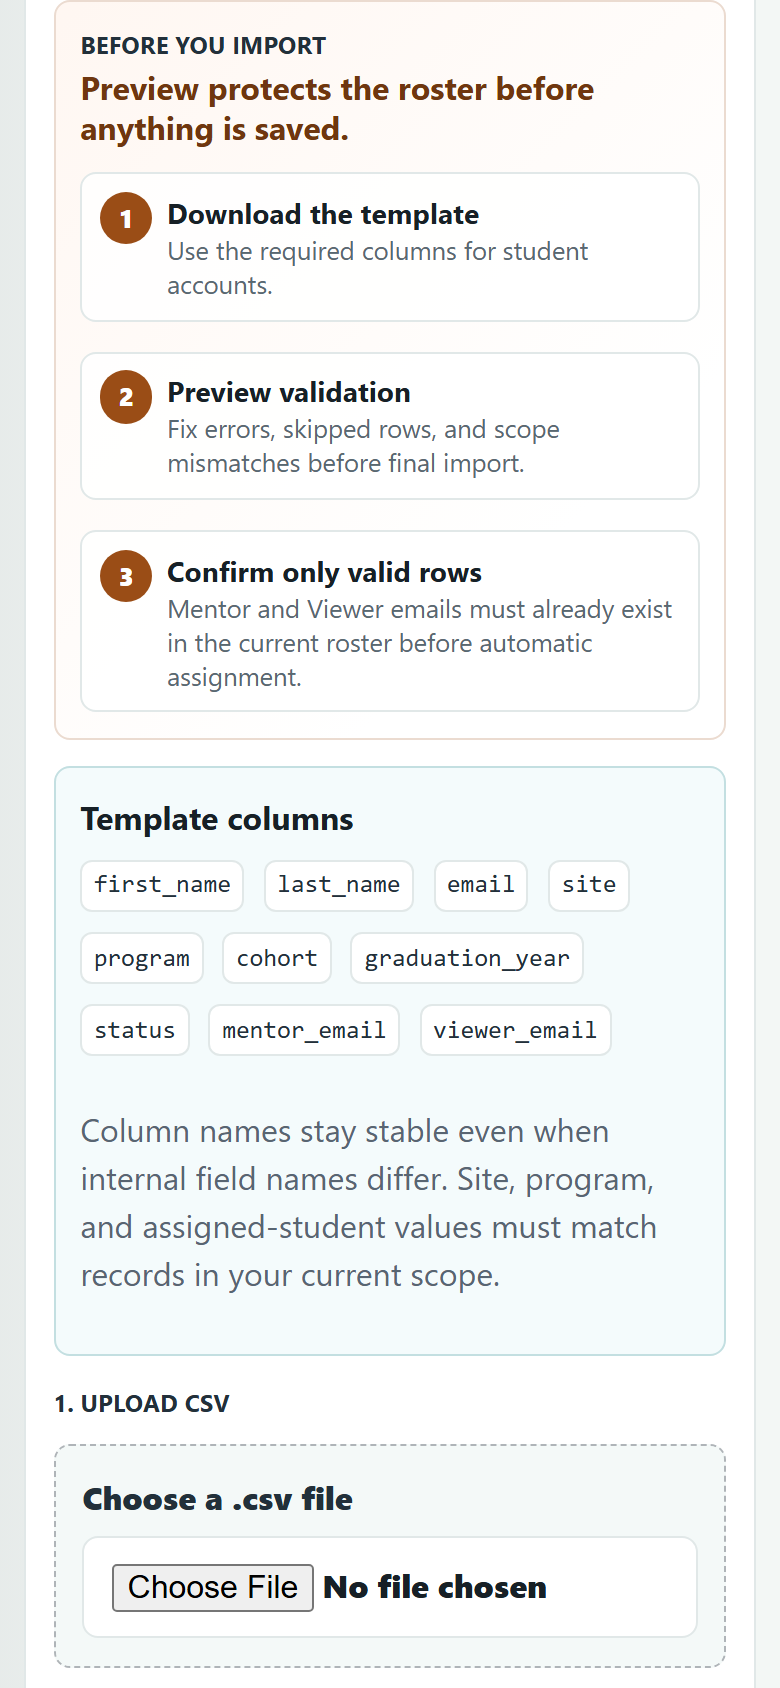
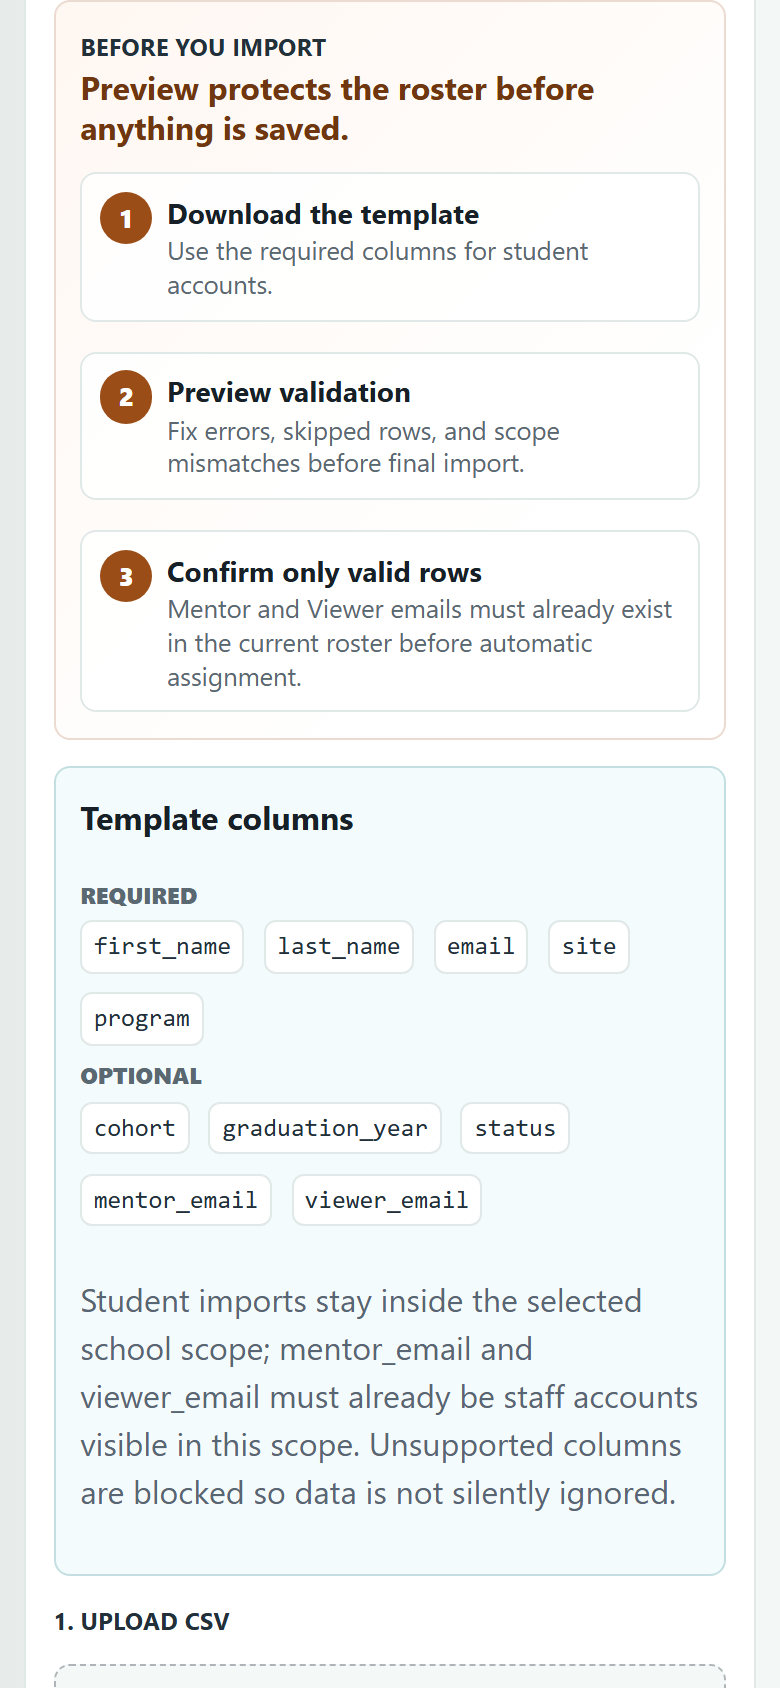
feat: strengthen reports imports and admin confidence

diff --git a/workspace.js b/workspace.js
@@ -5159,16 +5159,8 @@ function renderAdminAssignmentCoverageSummary() {
 
 function renderAdminImportTemplateShelf() {
   const templates = [
-    {
-      kind: "students",
-      title: "Student CSV template",
-      detail: "Student name, email, school, program, cohort, graduation year, status, mentor email, viewer email.",
-    },
-    {
-      kind: "staff",
-      title: "Staff CSV template",
-      detail: "Staff name, email, role, school, program, assigned student emails, and status.",
-    },
+    csvTemplateContractForKind("students"),
+    csvTemplateContractForKind("staff"),
   ];
   return `
     <section class="workspace-admin-template-shelf" data-admin-import-template-shelf="true" aria-label="CSV templates">
@@ -5180,6 +5172,8 @@ function renderAdminImportTemplateShelf() {
             <div>
               <strong>${escapeHtml(template.title)}</strong>
               <p>${escapeHtml(template.detail)}</p>
+              ${renderCsvTemplateColumnGroups(template.kind)}
+              <p class="workspace-muted">${escapeHtml(template.scopeNote)}</p>
             </div>
             <div class="workspace-row-actions">
               <button class="workspace-link-button workspace-link-button-small" type="button" data-people-view-target="${escapeHtml(template.kind === "staff" ? "import-staff" : "import-students")}">
@@ -17255,16 +17249,12 @@ function renderCsvImportStepper(kind = "students") {
 }
 
 function renderCsvTemplateDocumentation(kind = "students") {
-  const columns = kind === "staff"
-    ? ["first_name", "last_name", "email", "role", "site", "program", "assigned_student_emails", "status"]
-    : ["first_name", "last_name", "email", "site", "program", "cohort", "graduation_year", "status", "mentor_email", "viewer_email"];
+  const contract = csvTemplateContractForKind(kind);
   return `
     <section class="workspace-csv-template-doc" data-csv-template-doc="${escapeHtml(kind)}">
       <strong>Template columns</strong>
-      <div class="workspace-chip-row">
-        ${columns.map((column) => `<code>${escapeHtml(column)}</code>`).join("")}
-      </div>
-      <p class="workspace-muted">Column names stay stable even when internal field names differ. Site, program, and assigned-student values must match records in your current scope.</p>
+      ${renderCsvTemplateColumnGroups(kind)}
+      <p class="workspace-muted">${escapeHtml(contract.scopeNote)} ${escapeHtml(contract.validationNote)}</p>
     </section>
   `;
 }
@@ -17321,16 +17311,62 @@ function renderCsvSummaryMetric(label, value) {
 }
 
 function csvTemplateForKind(kind = "students") {
-  if (kind === "staff") {
-    return [
-      "first_name,last_name,email,role,site,program,assigned_student_emails,status",
-      "Maya,Rivera,[email redacted],mentor,Desert Valley High School,,[email redacted],active",
-    ].join("\n");
-  }
+  const contract = csvTemplateContractForKind(kind);
   return [
-    "first_name,last_name,email,site,program,cohort,graduation_year,status,mentor_email,viewer_email",
-    "Alex,Student,[email redacted],Desert Valley High School,Information Technology,Class of 2026,2026,active,[email redacted],[email redacted]",
+    csvTemplateColumnsForKind(kind).join(","),
+    contract.example.join(","),
   ].join("\n");
+}
+
+function csvTemplateContractForKind(kind = "students") {
+  const safeKind = kind === "staff" ? "staff" : "students";
+  return {
+    students: {
+      kind: "students",
+      title: "Student CSV template",
+      detail: "Creates local student accounts with school/program placement and optional roster coverage fields.",
+      required: ["first_name", "last_name", "email", "site", "program"],
+      optional: ["cohort", "graduation_year", "status", "mentor_email", "viewer_email"],
+      example: ["Alex", "Student", "[email redacted]", "Desert Valley High School", "Information Technology", "Class of 2026", "2026", "active", "[email redacted]", "[email redacted]"],
+      scopeNote: "Student imports stay inside the selected school scope; mentor_email and viewer_email must already be staff accounts visible in this scope.",
+      validationNote: "Unsupported columns are blocked so data is not silently ignored.",
+    },
+    staff: {
+      kind: "staff",
+      title: "Staff CSV template",
+      detail: "Creates local scoped staff, mentor, viewer, Program Teacher, School Admin, or Site Admin accounts.",
+      required: ["first_name", "last_name", "email", "role"],
+      optional: ["site", "program", "assigned_student_emails", "status"],
+      example: ["Maya", "Rivera", "[email redacted]", "mentor", "Desert Valley High School", "", "[email redacted]", "active"],
+      scopeNote: "Staff imports cannot create Global Admin or student rows; roles must be allowed for the signed-in admin.",
+      validationNote: "Site Admin and Administration need a site, Program Teacher needs a program, and Mentor or Viewer needs a site or assigned students.",
+    },
+  }[safeKind];
+}
+
+function csvTemplateColumnsForKind(kind = "students") {
+  const contract = csvTemplateContractForKind(kind);
+  return [...contract.required, ...contract.optional];
+}
+
+function renderCsvTemplateColumnGroups(kind = "students") {
+  const contract = csvTemplateContractForKind(kind);
+  const groups = [
+    ["Required", contract.required, true],
+    ["Optional", contract.optional, false],
+  ];
+  return `
+    <div class="workspace-csv-template-columns" data-csv-template-columns="${escapeHtml(contract.kind)}" aria-label="${escapeHtml(`${contract.title} columns`)}">
+      ${groups.map(([label, columns, required]) => `
+        <div class="workspace-csv-template-column-group" data-csv-template-column-group="${escapeHtml(String(label).toLowerCase())}">
+          <span>${escapeHtml(label)}</span>
+          <div class="workspace-chip-row">
+            ${columns.map((column) => `<code data-csv-template-column="${escapeHtml(column)}" data-csv-template-column-required="${escapeHtml(String(required))}">${escapeHtml(column)}</code>`).join("")}
+          </div>
+        </div>
+      `).join("")}
+    </div>
+  `;
 }
 
 function renderUsersAccessActionMap(roleChoices = [], options = {}) {
@@ -25167,6 +25203,13 @@ function validateAdminCsvImport(kind = "students", text = "", options = {}) {
       rowNumber: index + 2,
       values: Object.fromEntries(normalizedHeaders.map((header, cellIndex) => [header, String(row[cellIndex] || "").trim()])),
     }));
+  const headerErrors = validateCsvImportHeaders(kind, normalizedHeaders);
+  if (headerErrors.length) {
+    state.errors.push(...headerErrors.map((message) => ({ rowNumber: 1, message })));
+    state.summary.rowsDetected = rowObjects.length;
+    state.summary.rowsWithErrors = headerErrors.length;
+    return state;
+  }
   const context = adminCsvValidationContext();
   const seenEmails = new Set();
   const existingEmails = context.existingEmails;
@@ -25230,6 +25273,21 @@ function parseCsv(text = "") {
 
 function normalizeCsvColumn(value) {
   return String(value || "").trim().toLowerCase().replace(/[^a-z0-9]+/g, "_").replace(/^_+|_+$/g, "");
+}
+
+function validateCsvImportHeaders(kind = "students", normalizedHeaders = []) {
+  const contract = csvTemplateContractForKind(kind);
+  const required = new Set(contract.required);
+  const supported = new Set(csvTemplateColumnsForKind(kind));
+  const present = new Set(normalizedHeaders.filter(Boolean));
+  const missing = [...required].filter((column) => !present.has(column));
+  const unsupported = [...present].filter((column) => !supported.has(column));
+  const duplicates = [...present].filter((column) => normalizedHeaders.filter((header) => header === column).length > 1);
+  const errors = [];
+  if (missing.length) errors.push(`Missing required column${missing.length === 1 ? "" : "s"}: ${missing.join(", ")}.`);
+  if (unsupported.length) errors.push(`Unsupported column${unsupported.length === 1 ? "" : "s"}: ${unsupported.join(", ")}. Use only the supported ${contract.kind} CSV template columns.`);
+  if (duplicates.length) errors.push(`Duplicate column${duplicates.length === 1 ? "" : "s"}: ${Array.from(new Set(duplicates)).join(", ")}.`);
+  return errors;
 }
 
 function adminCsvValidationContext() {

diff --git a/workspace.css b/workspace.css
@@ -2098,6 +2098,24 @@ body[data-page="workspace"],
   color: var(--abc-muted);
 }
 
+.workspace-csv-template-columns {
+  display: grid;
+  gap: 0.4rem;
+  margin-top: 0.55rem;
+}
+
+.workspace-csv-template-column-group {
+  display: grid;
+  gap: 0.28rem;
+}
+
+.workspace-csv-template-column-group > span {
+  color: var(--abc-muted);
+  font-size: 0.72rem;
+  font-weight: 850;
+  text-transform: uppercase;
+}
+
 .workspace-report-bars,
 .workspace-admin-report-bars {
   display: grid;
@@ -4473,7 +4491,8 @@ body[data-page="workspace"],
   gap: 0.55rem;
 }
 
-.workspace-csv-template-doc code {
+.workspace-csv-template-doc code,
+.workspace-admin-template-shelf code {
   border: 1px solid var(--border-soft);
   border-radius: 6px;
   background: #fff;

diff --git a/docs/progress/reports-imports-admin-confidence-2026-07-05.md b/docs/progress/reports-imports-admin-confidence-2026-07-05.md
@@ -1,0 +1,31 @@
+# Reports, Imports, and Admin Confidence - 2026-07-05
+
+## Scope
+
+This pass strengthened the operational admin confidence surface without changing the app architecture: Staff Reports remains a supporting workspace tab, Admin Reports remains inside Admin Console, Imports stays in the admin import section, and Audit stays admin-only.
+
+## Changes
+
+- CSV templates now use one shared contract for downloadable headers, examples, shelf copy, and per-screen template documentation.
+- Student imports show required `first_name`, `last_name`, `email`, `site`, and `program` columns, plus optional `cohort`, `graduation_year`, `status`, `mentor_email`, and `viewer_email`.
+- Staff imports show required `first_name`, `last_name`, `email`, and `role` columns, plus optional `site`, `program`, `assigned_student_emails`, and `status`.
+- CSV preview now blocks missing, duplicate, or unsupported header columns before any final import can be confirmed.
+- Template guidance now states that student mentor/viewer emails must already exist in the current scope, staff imports cannot create Global Admin or student rows, and unsupported columns are blocked instead of silently ignored.
+
+## Reviewed And Preserved
+
+- Staff Reports and Admin Reports still derive from scoped data already available to the signed-in role and continue to show `n/a` for unknown percentages instead of claiming completion.
+- Assignment confidence still starts with missing coverage cards before the scoped assignment forms.
+- Audit remains redacted and operator-oriented, with access review, role assignment, recent change, and potential issue summaries.
+- No new export feature was added. Existing final-file/archive export flows remain the safe export surface; a new CSV/report export would need a separate RBAC-scoped API and should not be half-built in this UI-only pass.
+
+## Proof
+
+- Regression: `node --test tests/workspace-app.test.mjs`
+- Browser proof: `npm run prove:workspace-ui-polish`
+- Visual spot-checks: `19-csv-import-template.png`, `35-admin-reports.png`, `36-admin-audit.png`, and `38-mobile-admin-imports.png`
+- Full validation: `npm test`, `npm run typecheck`, `npm run check:workspace-mobile`, `npm run verify:workspace-navigation`, `npm run check`, `git diff --check`
+
+## Caveat
+
+`npm run check` still reports the existing real-student pilot NO-GO inside its passing output because required manual pilot evidence is not present yet. This pass does not claim real-student pilot readiness.